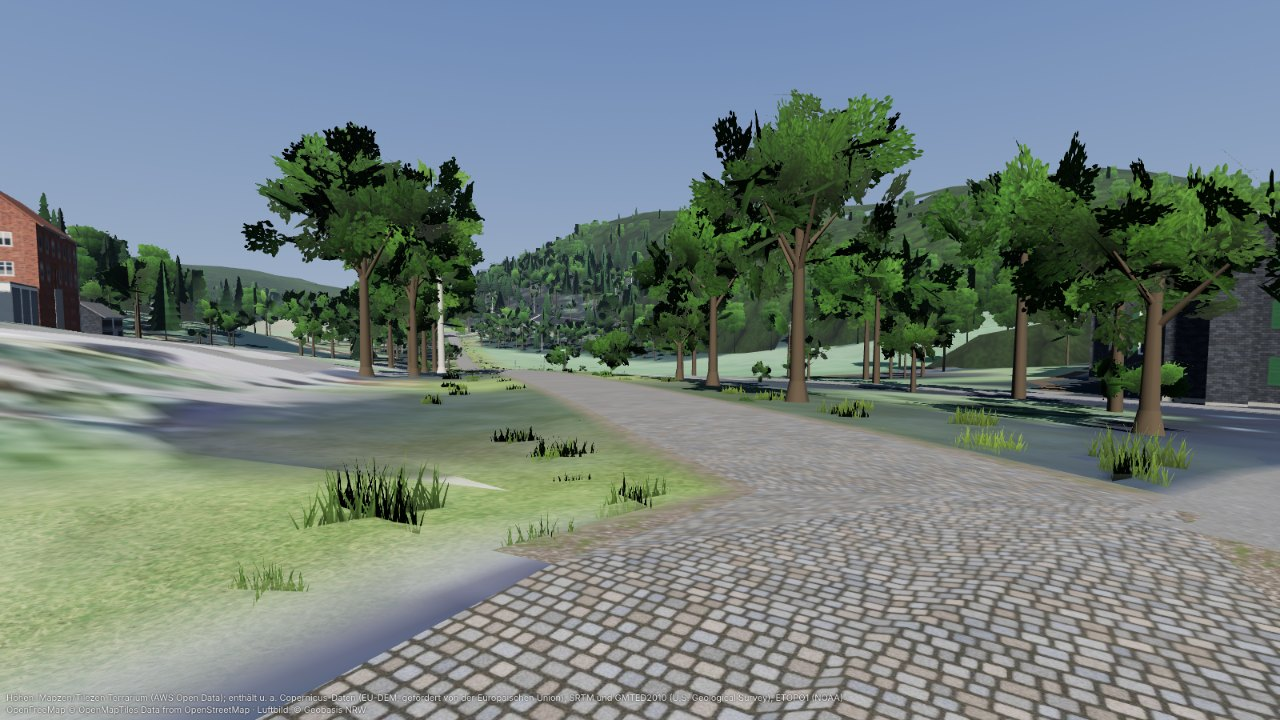
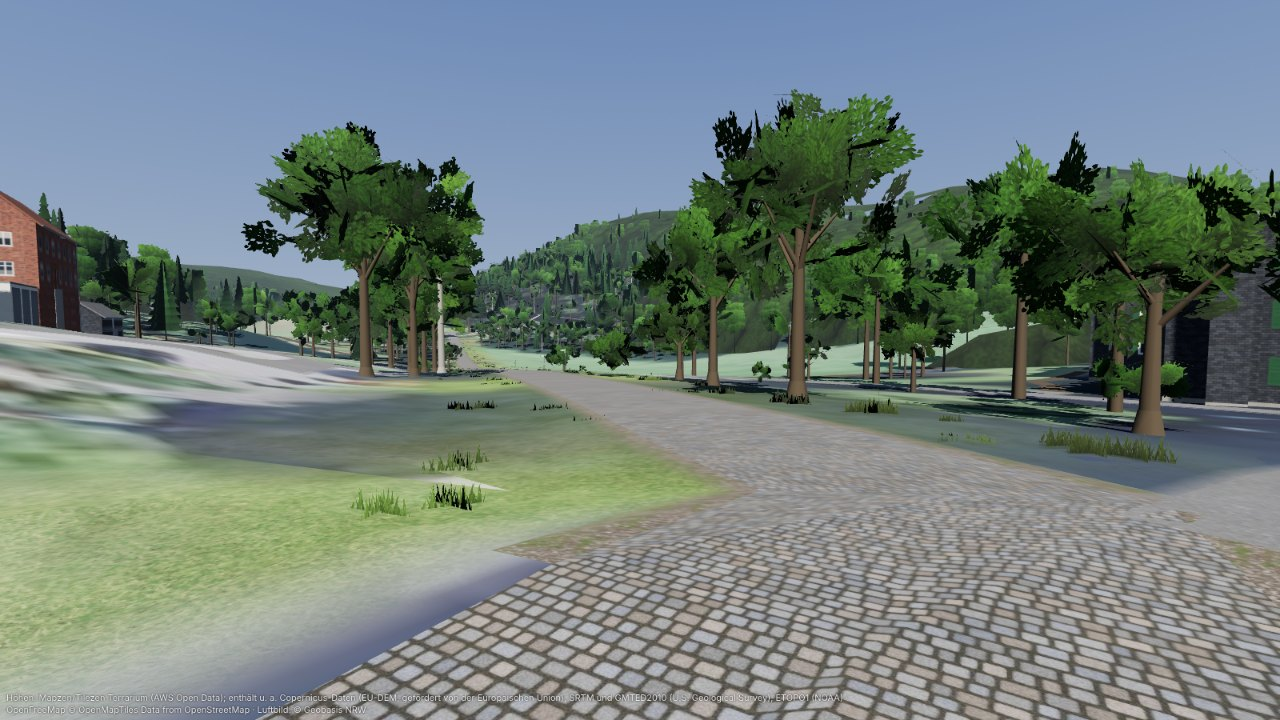
Indoor-Vegetation: Gutachten eingearbeitet, Bildpaare, Doku
- Kartennormalen senkrecht gestaucht: von unten gesehene Kronenoberseiten
  nicht mehr schwarz gegen den Himmel.
- Bodenbewuchs in Gruppen zu 1-3, unter Kronen abgedunkelt.
- Birkenstamm und obere Kiefernrinde gedaempft, Fichte mit 12 Quirlen.
- 8 Bildpaare vorher/nachher unter docs/indoor/bilder/foliage.
- world.md: Abschnitt "Vegetation" (Aufbau, MASK in Filament belegt,
  Mip-Deckung, Messwerte gegen Budgets, Gutachten, Offenes, nur im
  Betrachter Geprueftes); Abweichung 1 (MASK ohne Ausschnitte) erledigt.

WORLD_BUILDER_ID und Katalogversionen bewusst nicht angehoben.

Claude-Session: https://claude.ai/code/session_01E3qQ7ihnggcD4GmyCM1Ydn

diff --git a/core/src/main/kotlin/de/trailscape/core/indoor/world/TreesLayer.kt b/core/src/main/kotlin/de/trailscape/core/indoor/world/TreesLayer.kt
@@ -499,19 +499,30 @@ internal class TreesLayer : TileLayer {
                     if (hit.distance < tl.halfWidthAt(hit.distM) + 0.4) continue
                     if (net.clearance(e, n) < 0.7) continue
                     if (nearBuilding(buildings, e, n, 1.0)) continue
-                    if (used + TreeModels.TUFT_TRIANGLES > budget) return used
-                    val g = ctx.ground.heightAt(e, n)
                     val toward = Vec3(pose.e - e, 0.0, -(pose.n - n)).normalized(Vec3(0.0, 0.0, -1.0))
                     val fern = forest && h3 < 0.5 || (!forest && h3 < 0.06)
-                    val tint = 0.8 + 0.3 * Noise.hash01(k, side, SEED_UG + 5)
+                    // unter Kronen dunkler (Bewuchs empfaengt keine Schatten)
+                    val shadow = 1.0 - 0.45 * ctx.land.canopyAt(e, n).coerceIn(0.0, 1.0)
+                    val tint = (0.8 + 0.3 * Noise.hash01(k, side, SEED_UG + 5)) * shadow
                     val hue = (Noise.value(e / 23.0, n / 23.0, SEED_UG + 6) - 0.45) * 2.2
-                    if (fern) {
-                        TreeModels.fernTuft(m, ctx.x(e), ctx.y(g), ctx.z(n), 0.7 + 0.6 * h3, h4 * 6.283, toward, fernColor, tint, hue * 0.4)
-                    } else {
-                        val tall = 0.3 + 0.35 * h3 + (if (off > hw + 2.0) 0.15 else 0.0)
-                        TreeModels.grassTuft(m, ctx.x(e), ctx.y(g), ctx.z(n), tall * 1.8, tall, h4 * 6.283, toward, grassColor, tint, hue)
+                    // Gruppen aus 1–3 Bueschen statt einzelner Stempel
+                    val group = 1 + (h3 * 2.99).toInt()
+                    for (q in 0 until group) {
+                        if (used + TreeModels.TUFT_TRIANGLES > budget) return used
+                        val qa = Noise.hash01(k * 3 + q, side, SEED_UG + 7) * 6.283
+                        val qr = if (q == 0) 0.0 else 0.35 + 0.4 * Noise.hash01(k * 3 + q, side, SEED_UG + 8)
+                        val qe = e + kotlin.math.cos(qa) * qr
+                        val qn = n + kotlin.math.sin(qa) * qr
+                        val g = ctx.ground.heightAt(qe, qn)
+                        val sz = 0.75 + 0.35 * Noise.hash01(k * 3 + q, side, SEED_UG + 9)
+                        if (fern) {
+                            TreeModels.fernTuft(m, ctx.x(qe), ctx.y(g), ctx.z(qn), (0.6 + 0.5 * h3) * sz, h4 * 6.283 + q, toward, fernColor, tint, hue * 0.4)
+                        } else {
+                            val tall = (0.26 + 0.3 * h3 + (if (off > hw + 2.0) 0.12 else 0.0)) * sz
+                            TreeModels.grassTuft(m, ctx.x(qe), ctx.y(g), ctx.z(qn), tall * 1.8, tall, h4 * 6.283 + q, toward, grassColor, tint, hue)
+                        }
+                        used += TreeModels.TUFT_TRIANGLES
                     }
-                    used += TreeModels.TUFT_TRIANGLES
                 }
                 k++
             }
@@ -618,7 +629,7 @@ internal class TreesLayer : TileLayer {
         const val MAT_CANOPY = "x_mat_tree_canopy"
 
         /** Abstand der Plaetze fuer Bodenbewuchs entlang der Strecke (je Seite). */
-        const val UG_STEP_M = 1.4
+        const val UG_STEP_M = 2.2
 
         /** Hoechstens so viele Dreiecke Einzelbaeume je Kachel (Stufe 0). */
         const val SINGLE_TREE_MAX = 13_000

diff --git a/core/src/main/kotlin/de/trailscape/core/indoor/world/TreeModels.kt b/core/src/main/kotlin/de/trailscape/core/indoor/world/TreeModels.kt
@@ -135,10 +135,12 @@ internal object TreeModels {
         val fs = doubleArrayOf(0.0, 0.0, 1.0, 1.0)
         val gs = doubleArrayOf(-1.0, 1.0, 1.0, -1.0)
         val ps = Array(4) { base + along * (len * fs[it]) + across * (wid * 0.5 * gs[it]) }
+        // Richtung vom Kronenmittelpunkt, senkrecht gestaucht: Die Kamera ist fast immer unter den
+        // Kronen; Karten oben zeigen sonst steil nach oben, man saehe ihre Rueckseite mit
+        // umgedrehter (nach unten zeigender) Normale schwarz gegen den Himmel.
         val radials = Array(4) {
             val r = crown.rel(ps[it])
-            val rl = r.length()
-            if (rl < 1e-4) Vec3(0.0, 1.0, 0.0) else Vec3(r.x / rl, r.y / rl, r.z / rl)
+            Vec3(r.x, r.y * 0.45, r.z).normalized(Vec3(0.0, 1.0, 0.0))
         }
         // Vorderseite dorthin, wohin die gebogenen Normalen im Mittel zeigen: Von hinten gesehen
         // dreht Filament die Normale um — sie zeigt dann vom Licht der Kronenoberseite weg (dunkel)
@@ -152,7 +154,7 @@ internal object TreeModels {
             val g = gs[k]
             val p = ps[k]
             val rl = crown.rel(p).length()
-            val n = (pn * (1 - bend) + radials[k] * bend + Vec3(0.0, 0.18, 0.0)).normalized()
+            val n = (pn * (1 - bend) + radials[k] * bend + Vec3(0.0, 0.1, 0.0)).normalized()
             // Verschattung: innen und unten dunkler, oben und aussen heller.
             val depth = rl.coerceIn(0.0, 1.15)
             val ht = ((p.y - crown.bottom) / max(0.5, crown.top - crown.bottom)).coerceIn(0.0, 1.0)
@@ -188,7 +190,7 @@ internal object TreeModels {
     }
 
     private fun barkColor(s: Spec): Int =
-        if (s.pale) lin(Argb.rgb(170, 166, 156)) else lin(Argb.rgb(78, 66, 54))
+        if (s.pale) lin(Argb.rgb(142, 138, 130)) else lin(Argb.rgb(78, 66, 54))
 
     /** Stamm bis [top] mit Radius [r], in der feinsten Stufe mit Wurzelanlauf. */
     private fun stem(m: MeshBuilder, lod: Lod, r: Double, top: Double, color: Int) {
@@ -390,7 +392,7 @@ internal object TreeModels {
             return
         }
         val (tiers, perTier) = when (lod) {
-            Lod.NEAR -> 10 to 7
+            Lod.NEAR -> 12 to 6
             else -> 6 to 5
         }
         stem(trunk, lod, 0.015 * h, 0.9 * h, bark)
@@ -458,7 +460,7 @@ internal object TreeModels {
         val leaf = LEAF.getValue(Species.PINE)
         val r = 0.017 * h
         val lower = lin(Argb.rgb(84, 70, 60))
-        val upper = lin(Argb.rgb(150, 92, 58))
+        val upper = lin(Argb.rgb(124, 86, 62))
         val seg = if (lod == Lod.NEAR) 6 else if (lod == Lod.MID) 4 else 3
         if (lod == Lod.NEAR) trunk.addCylinder(Vec3(0.0, -0.3, 0.0), Vec3(0.0, 0.6, 0.0), r * 1.8, r * 1.05, seg, false, false, lower)
         trunk.addCylinder(Vec3(0.0, -0.3, 0.0), Vec3(0.0, 0.5 * h, 0.0), r * 1.1, r * 0.85, seg, false, false, lower)

diff --git a/docs/indoor/world.md b/docs/indoor/world.md
@@ -156,12 +156,168 @@ wirken auf Dreiecke und Speicher nur am Rand.)
 - Fernsicht ohne anisotrope Filterung (gltfio setzt sie nicht): Fahrbahn in
   20–50 m Entfernung unscharf? Der Betrachter rendert jetzt ebenfalls ohne.
 
+## Vegetation (24.11.2026, Branch `claude/indoor-foliage`)
+
+Anlass: Die Welt wirkte weiter „polygonmäßig"; größter Mangel waren Bäume und
+Bewuchs (Laubkronen als Klumpen weniger Polygone, Fichten als gestapelte
+Drehkörper, Wald fern als glatte Hügelkörper, kein Unterholz, nichts am
+Wegrand). Maßstab „Zwift oder besser". Geändert: `TreeModels.kt`,
+`TreesLayer.kt`, neu `FoliageAtlas.kt` (+ `FoliageAtlasTest`), im Betrachter
+die MASK-Darstellung (`viewer.js`). Keine Vertragsdatei geändert,
+`WORLD_BUILDER_ID` und Katalogversionen **nicht** angehoben (beim
+Zusammenführen nötig: die Bäume ändern sich in jeder Welt).
+
+Bildpaare (gleicher Blickpunkt, Betrachter, 1600 × 900 → JPEG):
+`docs/indoor/bilder/foliage/<name>-vorher.jpg` / `-nachher.jpg` —
+`altenberg-park-lenker`, `altenberg-waldrand-fichten`,
+`altenberg-offen-einzelbaeume`, `altenberg-laubwald-lenker`,
+`altenberg-hang-drohne`, `tharandt-forstweg`, `schauinsland-bergwald`,
+`schauinsland-tal-fernsicht`. Vorher = Stand `main` (6cd9387), beide mit
+demselben Betrachter gerendert.
+
+### Wie es gebaut ist
+
+- **Blattkarten.** Kronen sind viele kleine, verdrehte Vierecke mit einem Motiv
+  aus dem Atlas und Alpha-Ausschnitt (`mat_tree_leaves`: `MASK`, Schwelle 0,5,
+  doppelseitig — wie im Vertrag, jetzt mit echten Ausschnitten). Stamm und
+  (nah) die Hauptäste zu den Teilkronen sind Geometrie. Laubbaum nah: 104
+  Zweigkarten auf 5 Teilkronen + 16 innere Laubmasse-Karten (≈ 300 Dreiecke,
+  vorher ≈ 970 für den Kugelkörper).
+- **Licht ohne eigenen Shader.** Eckpunkt-Normalen sind zu 70–90 % die Richtung
+  vom Kronenmittelpunkt aus („gebogene Normalen"; senkrecht auf 45 % gestaucht,
+  weil die Kamera fast immer unter den Kronen ist — steil nach oben zeigende
+  Normalen ergaben von unten gesehene, schwarze Kronenoberseiten): Die
+  Krone schattiert wie ein weicher Körper, Karte für Karte flimmert nichts.
+  Verschattung innen/unten steckt in den Vertexfarben (Bäume empfangen keine
+  Schatten). **Vorderseite = Richtung der gebogenen Normalen:** Filament
+  (`doubleSided`) und three.js drehen auf der Rückseite die Normale um; lag
+  eine Karte „falsch herum", zeigte die umgedrehte Normale zur Sonne, und
+  innere Karten erschienen als blasse Flächen (im Betrachter gesehen, per
+  Motiv-Einfärbung gefunden). Mit der Regel sieht man von unten/hinten die
+  dunkle Seite.
+- **Arten:** breiter Laubbaum, schlanker Laubbaum (Pappel/Birke, halb mit
+  hellem Stamm), Feld-/Obstbaum, **Fichte** (Astquirle als „Schürzen": je Quirl
+  ein Kranz schräger Trapezkarten mit hängendem Nadelrand, Quirle überlappen),
+  **Kiefer** (neu: hoher kahler Stamm, oben rötlich, Schirmkrone; regional
+  gehäuft nach Rauschen), **Busch** (neu; im Offenland bei lockerer
+  Kronenbedeckung 10–20 %, als Unterholz am Waldweg 14 %; dicht gesetzt ergibt
+  das Hecken). Größe, Breite, Helligkeit und Farbton (regional + je Baum) streuen.
+- **Stufen** (gebacken, also fest nach Abstand zur Strecke — die Kamera ist
+  immer auf der Strecke, darum springt dazwischen nichts): nah ≤ 16 m volle
+  Karten, mittel ≤ 40 m 28–44 große Zweigkarten, fern Stamm + 6–8 große
+  Laubmasse-Karten; Fichte fern als Sternbild (drei senkrechte Karten mit dem
+  ganzen Baum). Vergabe vom Weg nach außen (nächste Bäume zuerst voll).
+- **Waldkörper mit Kronen-Silhouette:** Kronendach mit eigenem, kachelndem
+  Kronenmosaik (`x_mat_tree_canopy`, JPEG 256², 30 m je Kachelung) statt
+  Sprenkeltextur; am Waldrand je Randzelle ein Kreuzbild eines ganzen Baums
+  (Vorderseite nach draußen, verdeckt die Rampe des Kronendachs), in Stufe 0
+  ragen aus 30 % der Innenzellen Kronenspitzen. Stufe 1 bekommt nur die
+  Randbäume, aus einem kleinen Fern-Atlas (256²) statt des großen.
+- **Bodenbewuchs** (nur Stufe 0): Gras-/Kraut-Büschel (zwei gekreuzte Karten),
+  im Wald zur Hälfte Farn, in Gruppen zu 1–3 auf Plätzen alle 2,2 m je Seite entlang der Strecke
+  (aus dem Laufmeter gewürfelt, über Kachelgrenzen gleich), 0,5–4,3 m neben dem
+  Fahrbahnrand (Wald bis 7,5 m), fleckig nach Landnutzung, nie auf Straßen,
+  Wasser, in Gebäuden. Vorderseite zur Strecke, Normalen fast senkrecht, unter Kronen um bis zu 45 % dunkler (Bewuchs empfängt keine Schatten). Höchstens
+  1 600 Dreiecke je Kachel.
+- **Texturen** (alles im Code gezeichnet, keine fremden Bilder): Atlas 512²
+  mit Laubzweig, Kiefernbüschel, Fichten-Schürze, Kreuzbild Laub-/Nadelbaum,
+  Gras, Laubmasse, Farn — als **PNG Grau+Alpha** (Farbtyp 4; die Farbe kommt
+  aus den Eckpunkten; 58 KB statt 240 KB als RGBA), einmal je Prozess kodiert.
+
+### Flimmern und Mip-Stufen
+
+- **MASK in Filament (belegt an den Quellen):** gltfio bildet `alphaMode MASK`
+  auf die Ubershader-Variante `masked` ab; Filament schaltet für `MASKED`
+  automatisch **Alpha-to-Coverage** ein (`MaterialDefinition.cpp`:
+  `rasterState.alphaToCoverage = blendingMode == BlendingMode::MASKED`; Doku
+  `Materials.md`, „Blending and transparency: masked … ALPHA_TO_COVERAGE is
+  enabled"), wirksam mit dem 4×-MSAA der Darstellung. Vorher wird das Alpha über
+  die Ableitung geschärft (PR #7215 „Fix masked materials":
+  `(a − Schwelle) / fwidth(a) + 0,5`). Mip-Stufen erzeugt gltfio selbst
+  (`StbProvider`: `texture->generateMipmaps(engine)` immer; Sampler
+  `LINEAR_MIPMAP_LINEAR` aus unserer GLB).
+- **Betrachter = Filament:** `viewer.js` schaltet für MASK-Materialien
+  `alphaToCoverage` ein und ersetzt three.js' Schärfung (smoothstep, eine halbe
+  Ableitung dünner) durch Filaments Formel. three.js dreht bei doppelseitigen
+  Materialien die Normale der Rückseite ebenso um.
+- **Deckung in den Mip-Stufen:** Eigene Mip-Stufen lassen sich in einer GLB mit
+  PNG nicht mitgeben. Deshalb sind die Motive so gezeichnet, dass ihr Umriss
+  dicht gedeckt ist (überlappende Blätter/Nadeln); durchsichtige Pixel tragen
+  die Mittelfarbe des Motivs (kein dunkler Saum), zwischen Motiven ≥ 6 px Rand.
+  `FoliageAtlasTest` filtert wie `generateMipmaps` (2×2-Kasten) und verlangt in
+  den Stufen 1–3 mindestens 80 % der Deckung (Gras/Farn 55 %); gemessen
+  0,97–1,05.
+- **Koplanar:** Karten sind zufällig verdreht, Büschel senkrecht.
+  `indoor-dev overlaps`: Altenberg kurz 638 → 638, Tharandt km 2–6 234 → 234,
+  kein Paar mit Vegetation; `QualityTest` grün.
+
+### Messwerte (vorher → nachher)
+
+`-Xmx256m`, 2 Threads, Geodaten aus dem Cache. Vorher = `main` (6cd9387).
+
+| Welt | Dreiecke gleichzeitig | Texturen | Platte | Heap nach GC (max) | Bauzeit |
+|---|---|---|---|---|---|
+| Schauinsland 15,7 km (157 Kacheln) | 559 699 → 403 301 | 160,0 → 183,7 MB | 11,8 → 12,5 MB/km | 118 → 120 MB | (70 → 74 s) |
+| Altenberg kurz 3 km | 462 942 → 372 340 | 153,3 → 177,3 MB | 15,7 → 17,3 MB/km | 124 → 125 MB | (37 → 17 s) |
+| Tharandt km 2–6 | 489 503 → 369 626 | 137,2 → 160,5 MB | 12,5 → 13,2 MB/km | 109 → 121 MB | (38 → 19 s) |
+
+Budgets (≤ 700 000 Dreiecke, ≤ 256 MB Texturen, 256 MB Heap) eingehalten. Die
+Bauzeiten „vorher" enthalten das Laden aus dem Netz (erster Lauf), sind also
+nicht vergleichbar. **Platte:** Karten haben vier eigene Eckpunkte (je 36 Byte),
+geschlossene Körper teilen sie — je Dreieck etwa dreimal so viele Bytes. Damit
+der Plattenbedarf nur mäßig steigt (+6 bis +10 %), sind die Einzelbäume auf
+13 000 Dreiecke je Kachel gedeckelt (vorher nahmen sie bis ≈ 25 000), der
+Bodenbewuchs auf 1 600, und die Atlanten sind Grau+Alpha. Mehr Dichte ginge mit
+normierten `UNSIGNED_SHORT`-Texturkoordinaten (Kern-glTF, −4 Byte je Eckpunkt)
+in `Glb.kt` — nicht gemacht, weil auf dem Gerät ungeprüft und außerhalb dieses
+Auftrags. Texturen +23 MB: Atlas 1,4 MB GPU je Kachel der Stufe 0, Kronendach
+0,35 MB je Kachel.
+
+### Unabhängiges Gutachten (Unter-Agent, opus) und was daraus wurde
+
+Urteil zu den Bildpaaren: in allen acht Paaren besser als vorher, am nächsten
+an Zwift `altenberg-waldrand-fichten` und `altenberg-laubwald-lenker`
+(„fast auf Zwift-Niveau"); insgesamt **noch nicht Zwift-Niveau** (geschätzt
+60–65 %), vor allem in der Totalen und von oben. Eingearbeitet:
+
+| Kritik | Stand |
+|---|---|
+| schwarze Kartenrückseiten (Kronenoberseiten gegen den Himmel, Drohne) | **behoben** (gestauchte Normalen, Vorderseite nach Normale) |
+| Bodenbewuchs als verstreute Einzelstempel | **behoben** (Gruppen zu 1–3, kleiner) |
+| Gras und Bewuchs leuchten im Schatten | **teilweise:** Bewuchs unter Kronen abgedunkelt; Stämme nicht |
+| grell orange Kiefernstämme, kalkweiße Birken | **behoben** (gedämpft) |
+| Fichten-„Segel" von unten | **teilweise:** 12 kleinere Quirle statt 10, am Waldweg höherer kahler Stamm |
+| eigene Mip-Stufen mit erhaltener Deckung | **nicht möglich** (PNG in GLB hat eine Stufe, gltfio erzeugt sie); stattdessen dicht gezeichnete Motive, Test |
+| Kronen zu licht / Stangenwald, wenig Mittelschicht | **offen:** Budget (Deckel 13 000 je Kachel); mehr Dichte kostet Platte |
+| Karte schneidet die Nahebene am Wegrand | **offen** (selten; Kronen am Weg kürzen) |
+
+### Offen
+
+- **Kronendichte im dichten Wald:** Je 256-m-Kachel reicht der Deckel für rund
+  40 volle Kronen; dahinter mittlere und ferne Stufe. Wirkt licht
+  („Stangenwald"). Hebel: Deckel anheben (Platte +), `UNSIGNED_SHORT`-UV.
+- **Waldboden dunkel:** Luftbild unter Kronen (Gelände/Darstellung, nicht hier).
+- **Kronendach der Waldkörper** am Steilhang aus der Nähe weiterhin als Rampe
+  mit Kanten zu sehen, wo keine Randbäume stehen (Schauinsland rechts oben).
+- **Von hinten gesehene Karten** sind grundsätzlich dunkler (Normalenumkehr
+  doppelseitiger Materialien) — die Regeln oben machen es selten, nicht unmöglich.
+
+### Nur im Betrachter geprüft (Gerät steht aus)
+
+- Alles Sichtbare: three.js mit nachgebildetem MASK (Alpha-to-Coverage,
+  Filaments Schärfung), SwiftShader, `HemisphereLight` statt SH-Umgebungslicht.
+  Wie hell die Rückseiten und Kronenunterseiten unter Filaments `IndirectLight`
+  wirken, ist offen.
+- Bildrate: deutlich mehr Alpha-getestete Fläche (Overdraw, `discard` schaltet
+  Early-Z ab) bei weniger Dreiecken — auf dem Handy messen (MEDIUM, 4× MSAA).
+- PNG Grau+Alpha (Farbtyp 4) in gltfio: nach den Quellen (stb_image auf RGBA
+  erweitert) unkritisch, auf dem Gerät nicht gesehen.
+
 ## Abweichungen vom Vertrag
 
-1. **Laub `alphaMode = MASK` ohne Ausschnitte.** Kronen sind geschlossene
-   Körper mit voll deckender, kachelnder Textur (Material ist dennoch
-   `MASK` und doppelseitig, wie in `WorldNames`). Löcher in der Textur zeigten
-   die dunklen Innenseiten als schwarze Flecken.
+1. ~~Laub `alphaMode = MASK` ohne Ausschnitte.~~ Seit „Vegetation" (oben)
+   Blattkarten mit echtem Alpha-Ausschnitt, also wie im Vertrag. Die
+   Waldkörper tragen ein eigenes, deckendes Material `x_mat_tree_canopy`.
 2. **Wasser nur als Flächen.** Schmale Wasserläufe (Linien `waterway`)
    bekommen keinen eigenen Spiegel; sie erscheinen nur im Luftbild bzw. in der
    erzeugten Bodentextur. Wasser liegt als Gitterzellen (4 m in Stufe 0) knapp
